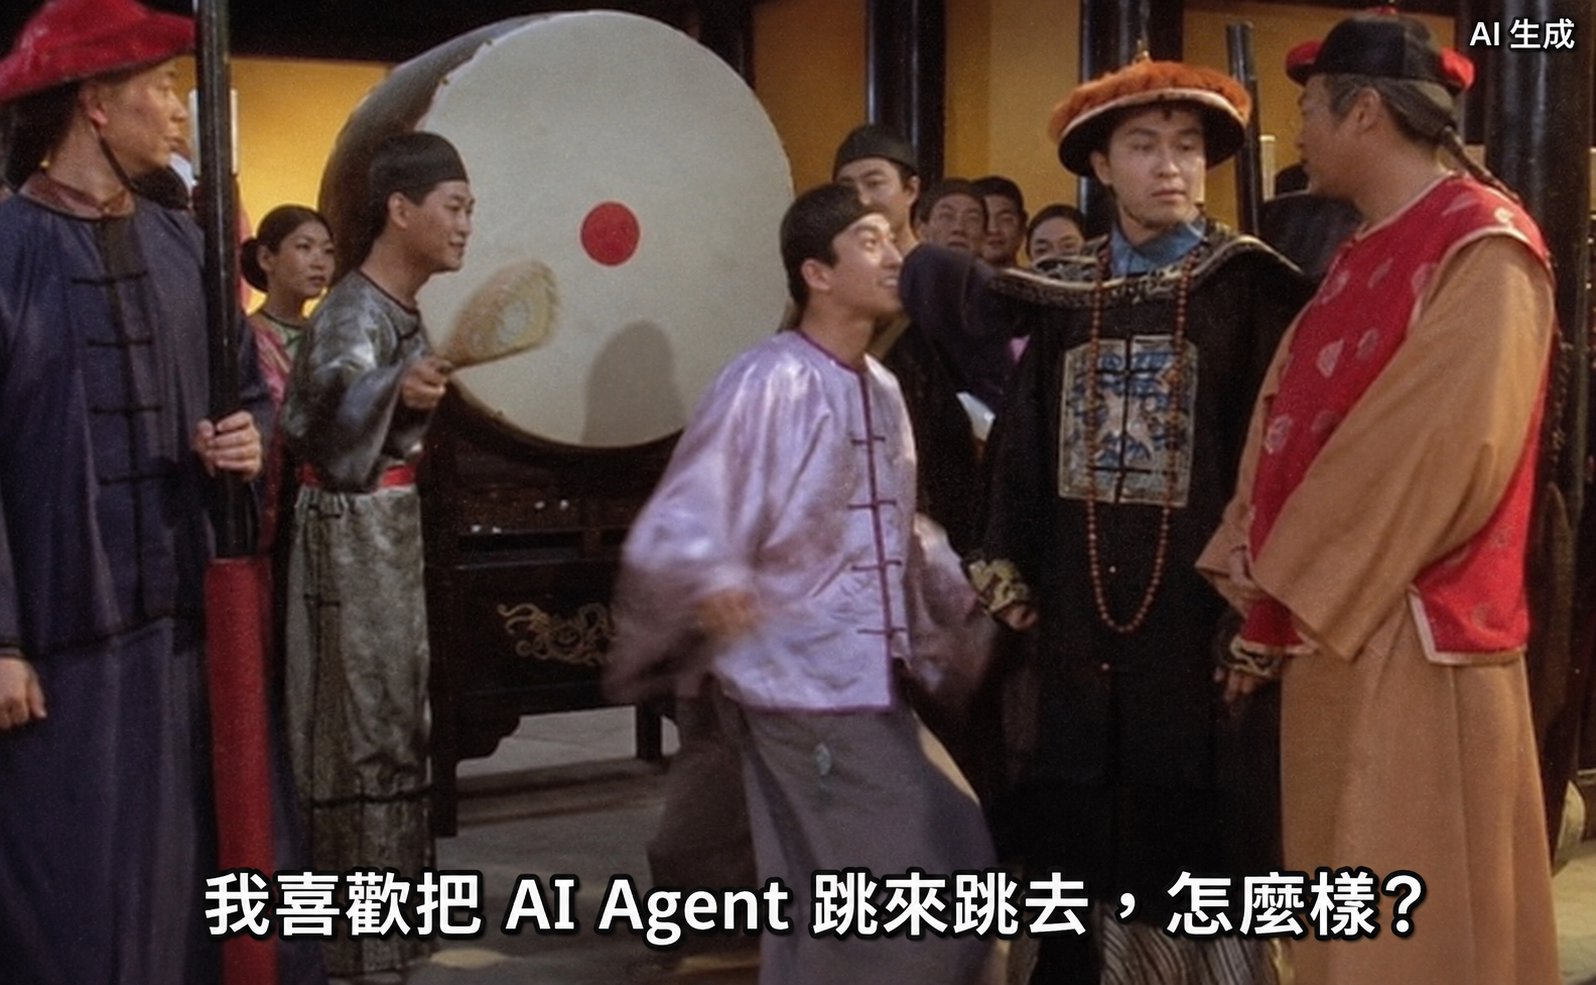
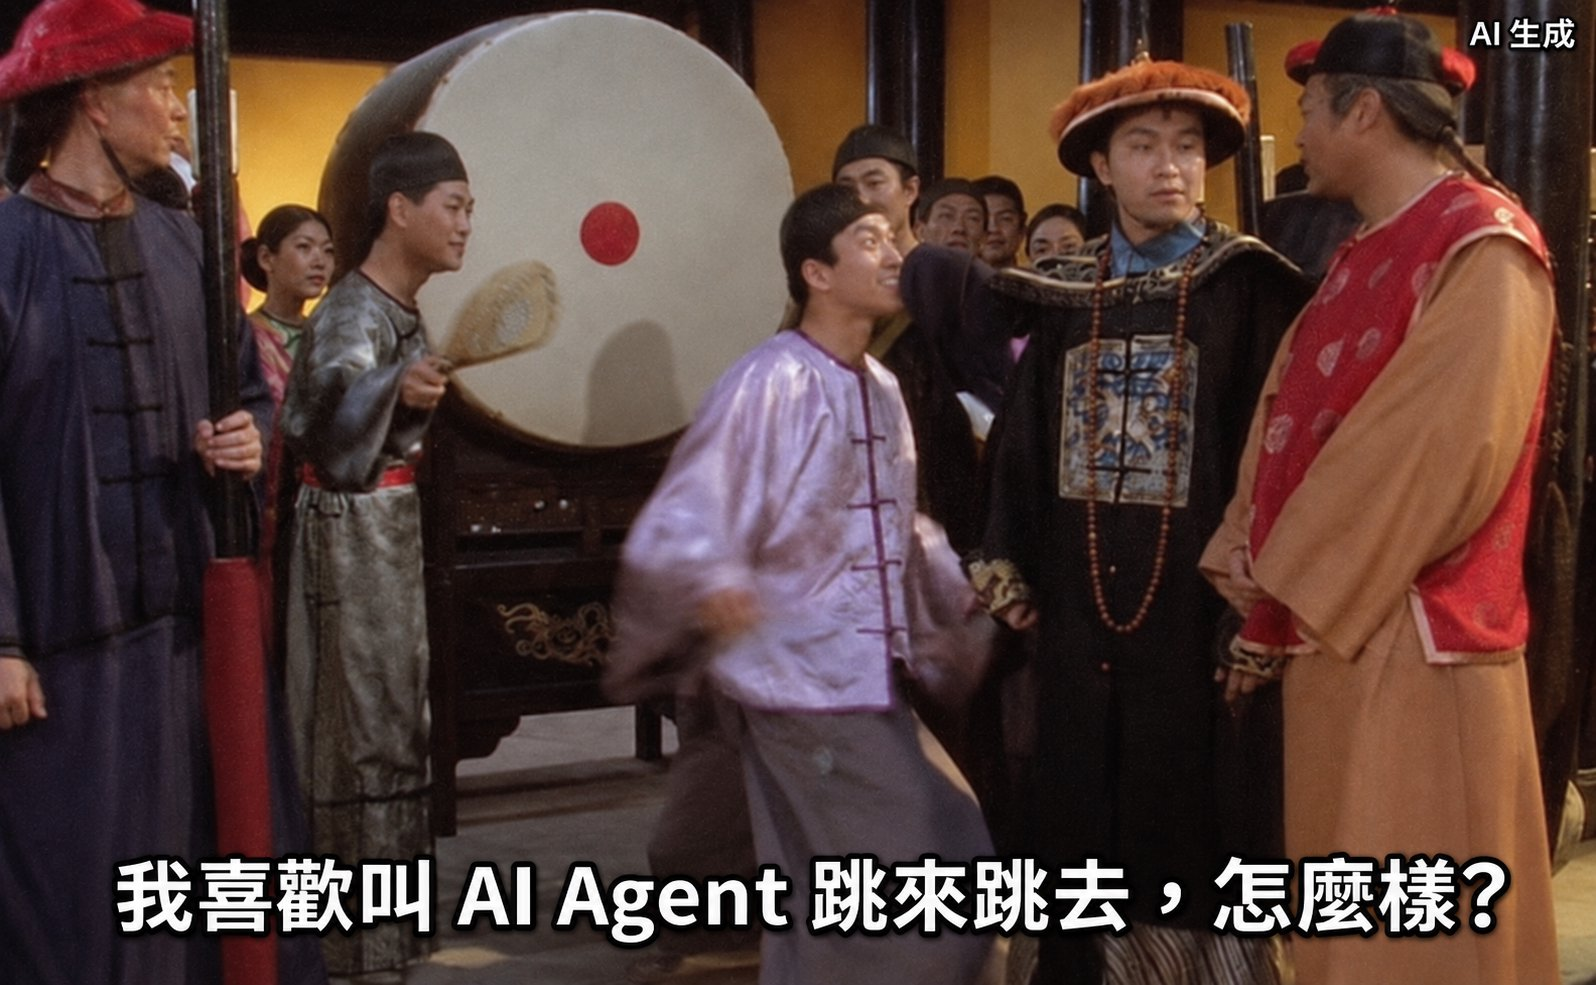
content(blog): update meme image and clarify GitHub account separation

diff --git a/content/blog/agent-orchestration-with-orca-cli.en.md b/content/blog/agent-orchestration-with-orca-cli.en.md
@@ -15,8 +15,8 @@ translation: machine-assisted
 ---
 
 <figure class="post-figure">
-  <img src="/blog/assets/agent-orchestration-with-orca-cli/agent-jumping-meme.webp" alt="Hail the Judge meme with Traditional Chinese caption reading: I like jumping AI agents back and forth, what about it?" width="1200" height="741" loading="eager" decoding="async" />
-  <figcaption>"I like jumping AI agents back and forth, what about it?" (AI-generated meme)</figcaption>
+  <img src="/blog/assets/agent-orchestration-with-orca-cli/agent-jumping-meme.webp" alt="Hail the Judge meme with Traditional Chinese caption reading: I like having AI agents jump back and forth, what about it?" width="1200" height="741" loading="eager" decoding="async" />
+  <figcaption>"I like having AI agents jump back and forth, what about it?" (AI-generated meme)</figcaption>
 </figure>
 
 ## A simple question: how is the main agent controlling Orca?
@@ -90,7 +90,7 @@ Even with good tooling, running multiple agents at once hits the same operationa
 - **Local port collisions**: if Agent A and Agent B both spin up a dev server on `localhost:3000`, one will crash. The usual fix is assigning per-worktree `PORT` overrides via environment variables or relying on a workbench that tracks ports automatically
 - **Package manager lockfile and cache contention**: running `npm install`, `bun install`, or `cargo build` simultaneously across worktrees can trip over shared caches unless caches are isolated or shared read-only
 - **Tab sprawl and overlapping file edits**: if two agents touch the same core file (like a router or database schema), you still pay the merge-conflict tax later. Keeping each ticket to at most two reused tabs (implement + review), closing tabs when cards move to Done, and slicing tasks into non-overlapping modules upfront saves a lot of friction
-- **Worktrees do not isolate credentials or external state**: Git worktrees isolate files and branches, not `.env` secrets, SSH keys, GitHub identities, or remote databases. Keeping a dedicated agent identity (`omp-agent`) and requiring human approval for irreversible actions like push, merge, and deploy remains essential
+- **Separate your Git / GitHub account**: Git worktrees isolate files and branches, not accounts, `.env` secrets, or cloud environments. I used to let agents share my personal GitHub account, but once multiple agents are jumping across branches, opening PRs, and leaving review comments, it becomes hard to tell what the human did versus what the AI did. Splitting out a dedicated GitHub account for agents (with its own SSH key and `gh` token via a wrapper) keeps the audit trail clean, while still requiring human approval for irreversible actions like push, merge, and deploy
 
 ## Takeaway
 

diff --git a/content/blog/agent-orchestration-with-orca-cli.zh.md b/content/blog/agent-orchestration-with-orca-cli.zh.md
@@ -14,8 +14,8 @@ origin: original
 ---
 
 <figure class="post-figure">
-  <img src="/blog/assets/agent-orchestration-with-orca-cli/agent-jumping-meme.webp" alt="九品芝麻官梗圖，字幕寫著：我喜歡把 AI Agent 跳來跳去，怎麼樣？" width="1200" height="741" loading="eager" decoding="async" />
-  <figcaption>我喜歡把 AI Agent 跳來跳去，怎麼樣？（圖片為 AI 生成）</figcaption>
+  <img src="/blog/assets/agent-orchestration-with-orca-cli/agent-jumping-meme.webp" alt="九品芝麻官梗圖，字幕寫著：我喜歡叫 AI Agent 跳來跳去，怎麼樣？" width="1200" height="741" loading="eager" decoding="async" />
+  <figcaption>我喜歡叫 AI Agent 跳來跳去，怎麼樣？（圖片為 AI 生成）</figcaption>
 </figure>
 
 ## 一個好奇的問題：主 Agent 是靠什麼遙控 Orca 的？
@@ -89,7 +89,7 @@ Orca Runtime（本機工作台）
 - **本機 Port 撞車**：Agent A 跟 Agent B 同時在各自的 worktree 啟動開發伺服器（例如都搶 `localhost:3000`），其中一個就會起不來。解法通常是在每個 worktree 透過環境變數分配不同 port，或交給支援 port 偵測的工作台處理
 - **套件快取與鎖檔互搶**：同時在多個 worktree 跑 `npm install`、`bun install` 或 `cargo build`，偶爾會互相卡住共用快取，需要設定隔離快取或透過工具共享唯讀依賴
 - **分頁越開越多、任務切得不夠乾淨**：如果兩個 agent 同時改到同一個核心檔案（例如路由設定或資料庫 schema），最後合併一樣會解衝突解到懷疑人生。我的做法是在規則裡限制每張票最多兩個分頁（實作 + 審查），修改跟複審直接沿用既有分頁，任務進 Done 就順手關掉，同時一開始就讓主 agent 把修改範圍切開
-- **憑證與外部環境並沒有被 worktree 隔離**：Git worktree 只隔離檔案跟分支，不會幫你隔離 `.env` 密鑰、SSH key、GitHub 帳號或雲端資料庫。所以我還是維持獨立的 `omp-agent` 帳號身分，並且保留高風險指令（例如 push、merge、deploy）的人工確認點
+- **Git / GitHub 帳號記得切開**：Git worktree 只隔離檔案跟分支，不會幫你隔離帳號、`.env` 密鑰或雲端環境。以前我也是讓 agent 直接沿用本尊的 GitHub 帳號，但只要多個 agent 在不同分支跳來跳去、開 PR、留 review，回頭看紀錄根本分不清哪筆是人寫的、哪筆是 AI 動的手。後來乾脆獨立出一個專門給 agent 用的 GitHub 帳號（透過 wrapper 切開 SSH key 跟 `gh` token），本尊跟 AI 的動作一拆開，追蹤紀錄清楚很多，高風險指令（例如 push、merge、deploy）也照樣保留人工確認點
 
 ## 結語
 
